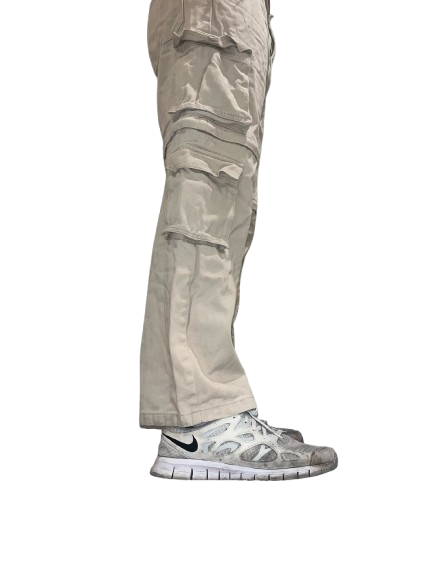
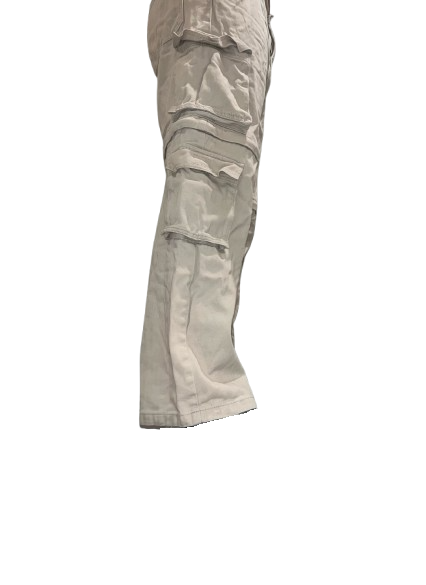
able to switch pants

Changed region(s): [[0.3357, 0.6769, 0.7934, 0.8308]]

diff --git a/styles/styles.css b/styles/styles.css
@@ -11432,16 +11432,6 @@ body {
   color: var(--bs-black); /* Adjust text color to make it visible on dark background */
 }
 
-.shoe-image {
-  max-width: 185px;
-  max-height: 200px;
-  position: absolute;
-  width: auto;
-  height: auto;
-  object-fit: contain; /* Ensure the image maintains its aspect ratio */
-  margin-top: 380px; /* Adjust this value to move the image down */
-}
-
 /* SIDEBAR STYLING */
 .sidebar {
   width: 50px; /* Width when collapsed */
@@ -11486,7 +11476,9 @@ body {
 }
 
 .shoe-detail-container p {
-  margin-bottom : -550px;
+  margin-bottom : -500px;
+  position: relative; /* Set position to relative to allow z-index manipulation */
+  z-index: 20; /* Ensure it's in front of other elements */
 }
 
 h4, h5 {
@@ -11494,30 +11486,40 @@ h4, h5 {
   color: #f8f9fa;
 }
 
+.shoe-image {
+  max-width: 170px;
+  max-height: 200px;
+  position: absolute;
+  width: auto;
+  height: auto;
+  object-fit: contain; /* Ensure the image maintains its aspect ratio */
+  margin-top: 380px; /* Adjust this value to move the image down */
+}
+
 .cargo-pants-image {
-  max-width: 400px; /* Set the desired size for the pants image */
+  max-width: 300px; /* Set the desired size for the pants image */
   height: auto; /* Maintain aspect ratio */
   position: absolute; /* Position it absolutely */
-  top: 140px; /* Adjust this value to position above the shoe */
-  margin-left: -80px; /* Adjust this value to move it further left */
+  top: 147px; /* Adjust this value to position above the shoe */
+  margin-left: -70px; /* Adjust this value to move it further left */
   z-index: 10; /* Ensure it's above the shoe image */
 }
 
 .jogger-pants-image {
-  max-width: 400px; /* Set the desired size for the pants image */
+  max-width: 350px; /* Set the desired size for the pants image */
   height: auto; /* Maintain aspect ratio */
   position: absolute; /* Position it absolutely */
-  top: 140px; /* Adjust this value to position above the shoe */
-  margin-left: -80px; /* Adjust this value to move it further left */
+  top: 100px; /* Adjust this value to position above the shoe */
+  margin-left: -23px; /* Adjust this value to move it further left */
   z-index: 10; /* Ensure it's above the shoe image */
 }
 
 .jeans-image {
-  max-width: 400px; /* Set the desired size for the pants image */
+  max-width: 370px; /* Set the desired size for the pants image */
   height: auto; /* Maintain aspect ratio */
   position: absolute; /* Position it absolutely */
-  top: 140px; /* Adjust this value to position above the shoe */
-  margin-left: -80px; /* Adjust this value to move it further left */
+  top: 135px; /* Adjust this value to position above the shoe */
+  margin-left: 8px; /* Adjust this value to move it further left */
   z-index: 10; /* Ensure it's above the shoe image */
 }
 

diff --git a/app/shoe/[id]/page.js b/app/shoe/[id]/page.js
@@ -9,7 +9,7 @@ const ShoeDetail = () => {
   const pathname = usePathname();  
   const [product, setProduct] = useState(null);
   const [error, setError] = useState('');
-  const [selectedPantsType, setSelectedPantsType] = useState('joggers');
+  const [selectedPantsType, setSelectedPantsType] = useState('jeans');
   const [animationKey, setAnimationKey] = useState(0); // State to trigger fade-in
   const [isFadingOut, setIsFadingOut] = useState(false); // State for fade-out effect
 
@@ -80,11 +80,11 @@ const ShoeDetail = () => {
 
   // Dynamically set the pants image based on selectedPantsType
   const pantsImageSrc = selectedPantsType === 'joggers'
-    ? '/pants/joggers.png'
+    ? '/pants/joggers_refined.png'
     : selectedPantsType === 'cargos'
     ? '/pants/cargo_pants.png'
     : selectedPantsType === 'jeans'
-    ? '/pants/jeans.png'
+    ? '/pants/jeans_refined1.png'
     : '';
 
   return (

diff --git a/components/Sidebar.js b/components/Sidebar.js
@@ -6,7 +6,7 @@ import ColorWheelComponent from './ColorWheel'; // Import the Color Wheel Compon
 const Sidebar = ({ setSelectedPantsType }) => {  // Accept the setter as a prop
   const [isExpanded, setIsExpanded] = useState(true);  // set back to false when deployed
   const [color, setColor] = useState('#ffffff'); // Default color for pants
-  const [selectedPantsType, setSelectedPantsTypeLocal] = useState('joggers');
+  const [selectedPantsType, setSelectedPantsTypeLocal] = useState('jeans');
   const [jeansColor, setJeansColor] = useState('blue'); // Default color for jeans
   const [cargosColor, setCargosColor] = useState('grey'); // Default color for cargos
   const [joggersColor, setJoggersColor] = useState('grey'); // Default color for joggers
